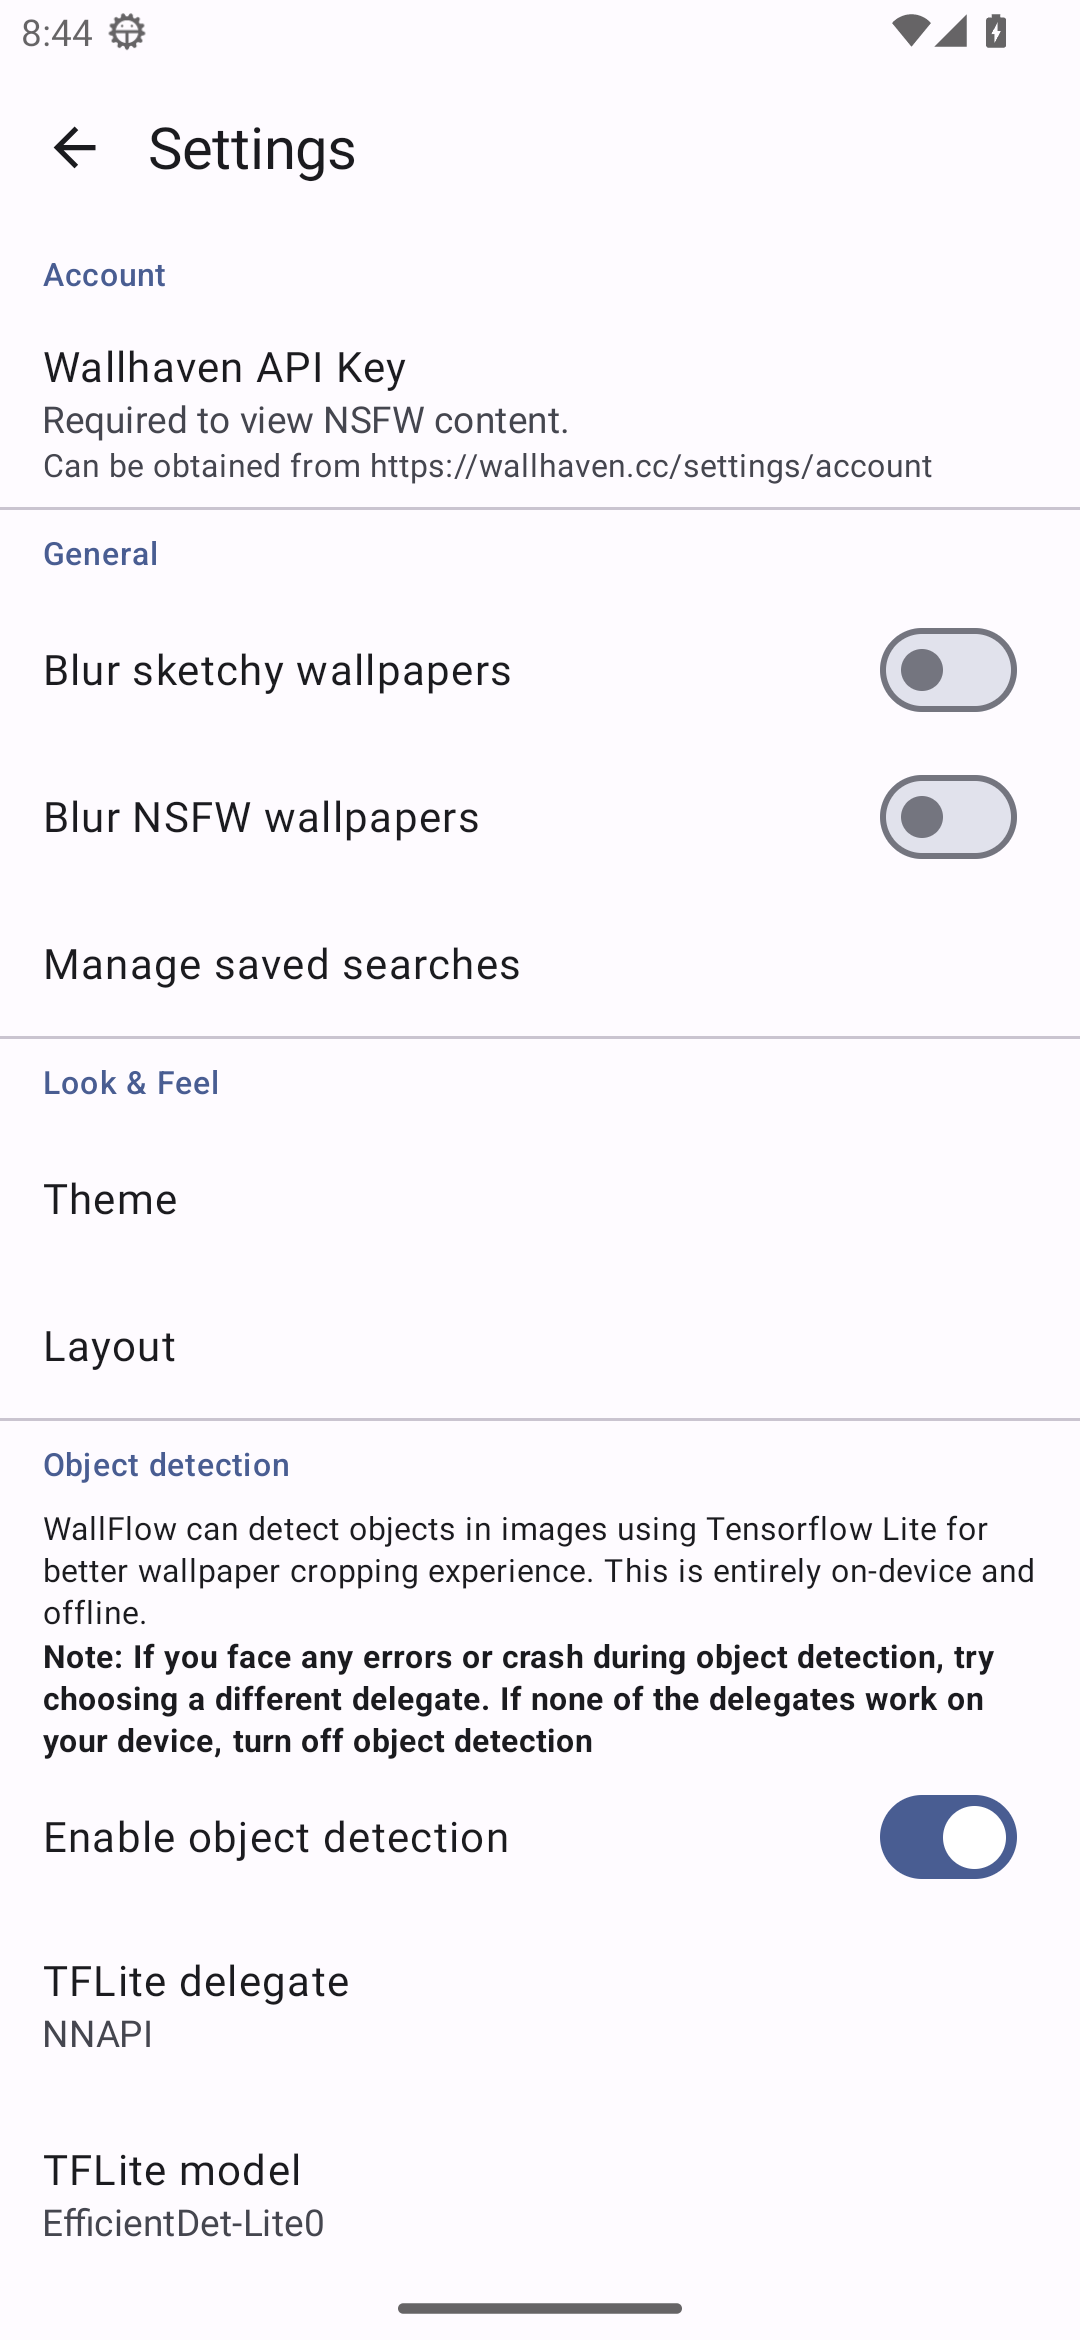
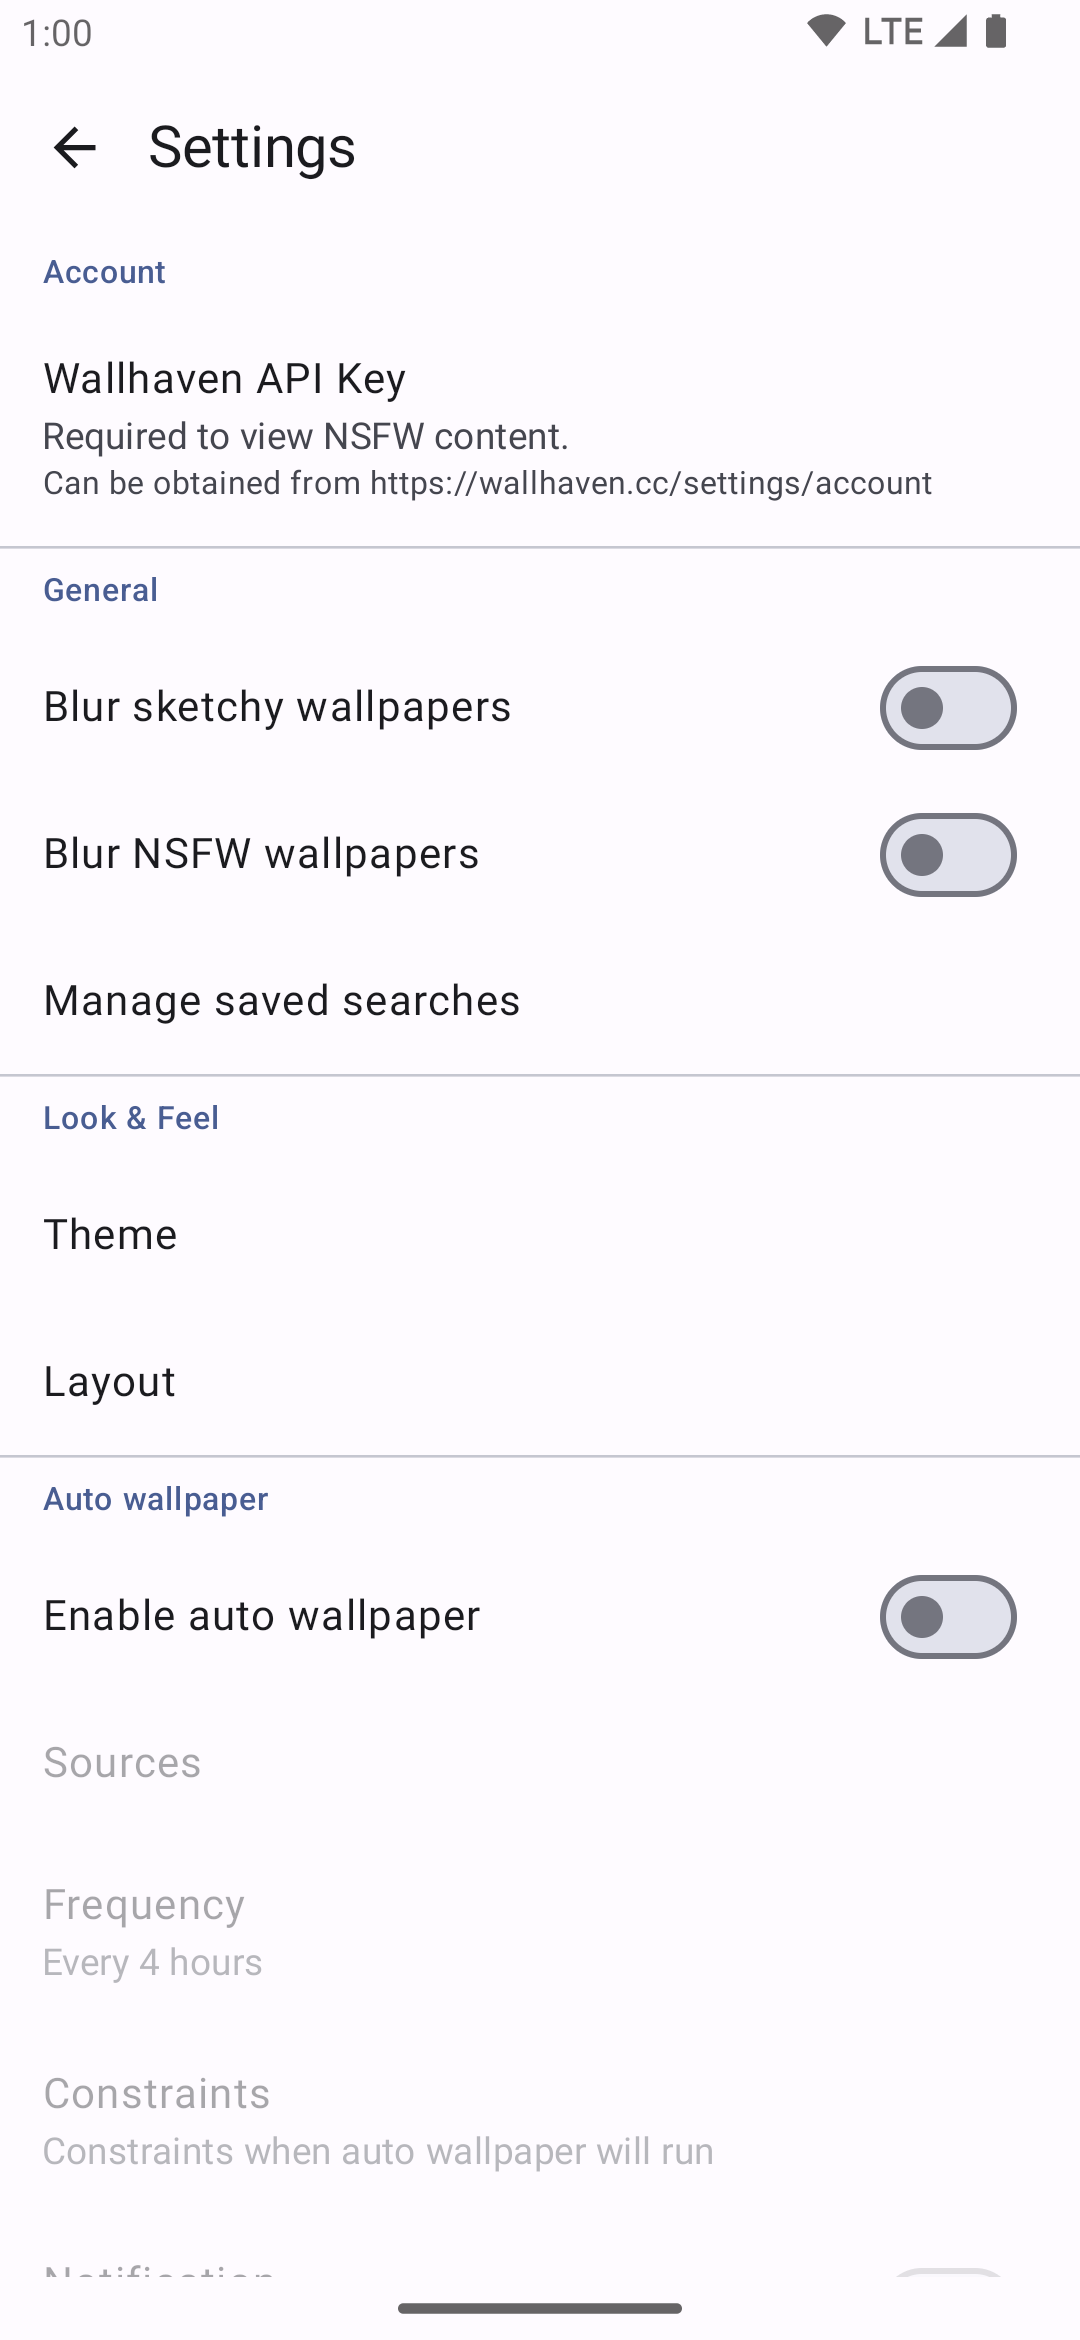
Release v1.1.0

diff --git a/README.md b/README.md
@@ -50,7 +50,9 @@
 
 - Multi-pane layout for tablets and other wide screen devices
 - Auto wallpaper changer
-- Save searches and use them for auto wallpaper changer
+- Save searches
+- Favorite wallpapers
+- Use saved searches and favorites for auto wallpaper changer
 - Search history
 - Supports all filters provided by wallhaven.cc
 - [Optional] Smart wallpaper cropping using on-device object detection powered by [Tensorflow Lite](https://www.tensorflow.org/lite/). ([See note below](#note))
@@ -71,7 +73,6 @@ Two versions are provided (both free and open-source)
 
 ## Roadmap
 
-- [x] Favorites
 - [ ] Local wallpapers
 - [ ] Auto wallpaper using combination of local wallpapers, favorites and saved search
 - [ ] Add more sources
